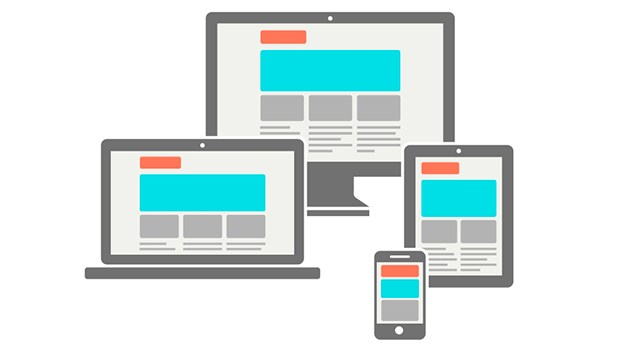
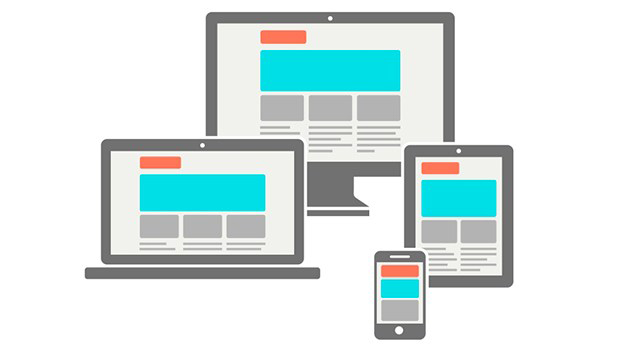
1.4

diff --git a/index.html b/index.html
@@ -28,7 +28,7 @@
       <div class="body-text">
       <img class="web-pic" src="images/webdevPic.png" alt="picture of sunset" />
       Freelance Web Designer & Developer based in Phoenix, Arizona.<br /> Highly experienced in designing & developing custom Wordpress websites. <hr />Fully responsive, custom designed Wordpress CMS websites
-      <img class="main-pic" src="images/Main-pic.png" alt="picture of sunset" />
+      <img class="main-pic" src="images/Main-pic.jpg" alt="picture of sunset" />
       </div>
     </div>
     <div class="resume-body">
